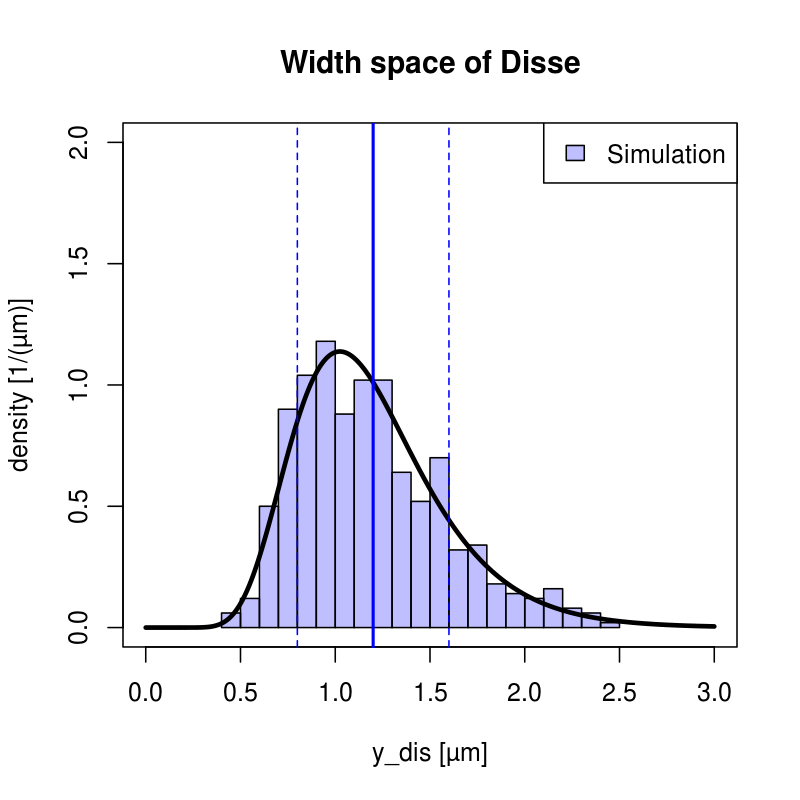
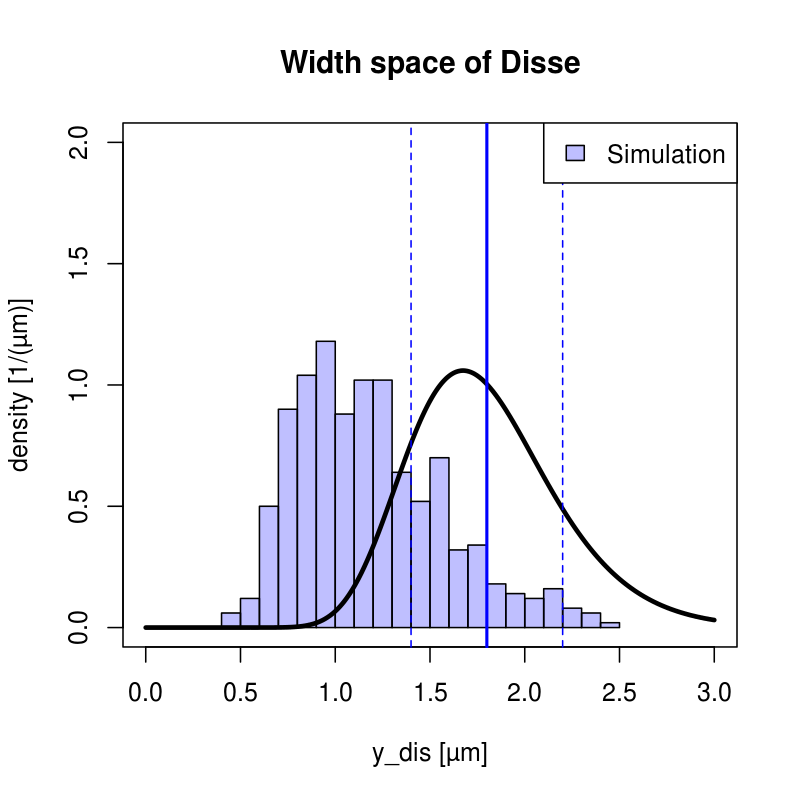
y_dis updated

diff --git a/python/simulator/simulator/SimulationFactory.py b/python/simulator/simulator/SimulationFactory.py
@@ -213,7 +213,9 @@ def make_galactose_dilution(sbml_id, N, sampling):
     model = create_django_model(sbml_id, sync=True)
     
     # adapt flow in samples with the given f_flows
-    f_flows = (1.0, 0.5, 0.4, 0.3, 0.2, 0.1, 0.05, 0.01)
+    # f_flows = (1.0, 0.5, 0.4, 0.3, 0.2, 0.1, 0.05, 0.01)
+    f_flows = (1.0, 0.5, 0.4, 0.3)
+    
     raw_samples = createFlowSamples(N=N, sampling=sampling, f_flows=f_flows)
     
     samples = setParameterInSamples(raw_samples, 'PP__gal', 0.0, 'mM', BOUNDERY_INIT)
@@ -363,7 +365,7 @@ def derive_deficiency_simulations(task, samples, deficiencies):
 
 ####################################################################################
 if __name__ == "__main__":
-    VERSION = 51
+    VERSION = 53
     
     #----------------------------------------------------------------------#
     if (0):
@@ -394,7 +396,7 @@ if __name__ == "__main__":
         task, samples = make_galactose_flow(sbml_id, N=1, sampling='mean')
 
     #----------------------------------------------------------------------#
-    if (1):
+    if (0):
         ''' GEC curves in aging. 
             Age dependent change in N_fen and y_end.
         '''
@@ -406,7 +408,7 @@ if __name__ == "__main__":
         task, samples = make_galactose_aging(sbml_id, N=1, sampling='mean')
    
     #----------------------------------------------------------------------#
-    if (1):
+    if (0):
         ''' GEC curves under different metabolic capacity of galactose metabolism. 
             Change in the maximal scale of metabolism
         '''
@@ -418,7 +420,7 @@ if __name__ == "__main__":
         task, samples = make_galactose_metabolic_change(sbml_id, N=1, sampling='mean')
    
     #----------------------------------------------------------------------#
-    if (0):
+    if (1):
         '''
         Multiple Indicator Dilution.
         Combination with different galactose challenge, i.e. dilution curves
@@ -434,7 +436,7 @@ if __name__ == "__main__":
         
         
         # basic dilution curves with additional galactose challenge
-        [task, raw_samples] = make_galactose_dilution(sbml_id, N=10, sampling="distribution")
+        [task, raw_samples] = make_galactose_dilution(sbml_id, N=100, sampling="distribution")
         samples = setParameterValuesInSamples(raw_samples, p_list)
         createSimulationsForSamples(task, samples)
         

diff --git a/python/simulator/simulator/spyder/spyder_galactose.py b/python/simulator/simulator/spyder/spyder_galactose.py
@@ -202,9 +202,9 @@ sel += [ "".join(["[", item, "]"]) for item in r.model.getFloatingSpeciesIds() i
 # PP__gal = (0.28, 5, 12.5, 17.5) # [mM]
 # { "[PP__gal]" : 0.28,  "scale_f" : 1.2*5.3e-15,  "flow_sin" : 180E-6, "GLUT2_f" : 4.0 },
 p_list = [
-    { "[PP__gal]" : 0.28, "flow_sin" : 0.3*270E-6, "GLUT2_f" : 10.0 },
-    { "[PP__gal]" : 12.5, "flow_sin" : 0.3*270E-6, "GLUT2_f" : 10.0 },
-    { "[PP__gal]" : 17.5, "flow_sin" : 0.3*270E-6, "GLUT2_f" : 10.0 }
+    { "[PP__gal]" : 0.28, "flow_sin" : 0.4*270E-6, "GLUT2_f" : 20.0, "y_dis": 1.2E-6 },
+    { "[PP__gal]" : 12.5, "flow_sin" : 0.4*270E-6, "GLUT2_f" : 20.0, "y_dis": 1.5E-6 },
+    { "[PP__gal]" : 17.5, "flow_sin" : 0.4*270E-6, "GLUT2_f" : 20.0, "y_dis": 1.8E-6 }
 ]
 inits = {}
 
@@ -217,7 +217,7 @@ dilution_plots_gal(s_list, r.selections, name='gal1pM')
 dilution_plots_gal(s_list, r.selections, name='gal1pM', xlim=[5000, 6000])
 dilution_plots_gal(s_list, r.selections, name='gal1p', xlim=[5000, 6000])
 
-
+r.getInfo()
 
 s = r.getSimulationData()
 import pylab as p

diff --git a/python/modelcreator/modelcreator/models/SinusoidalUnit.py b/python/modelcreator/modelcreator/models/SinusoidalUnit.py
@@ -71,7 +71,7 @@ pars.extend([
             ('L',           500E-6,   'm',      True),
             ('y_sin',       4.4E-6,   'm',      True),
             ('y_end',     0.165E-6, 'm',      True),
-            ('y_dis',       1.2E-6,   'm',      True),
+            ('y_dis',       1.8E-6,   'm',      True),
             ('y_cell',     7.58E-6,  'm',      True),
             ('flow_sin',    270E-6,   'm_per_s',True),
             ('N_fen',        10E12,   'per_m2', True),

diff --git a/python/modelcreator/modelcreator/models/GalactoseFactory.py b/python/modelcreator/modelcreator/models/GalactoseFactory.py
@@ -16,8 +16,8 @@ from modelcreator.events.event_factory import createGalactoseStepEventData
 if __name__ == "__main__":
     
     # definition of cell model and tissue model
-    Nc = 1
-    version = 51
+    Nc = 20
+    version = 53
     cell_model = CellModel.createModel('galactose.GalactoseCell')
     tdict = TissueModel.createTissueDict(['SinusoidalUnit', 
                                           'galactose.GalactoseSinusoid']) 
